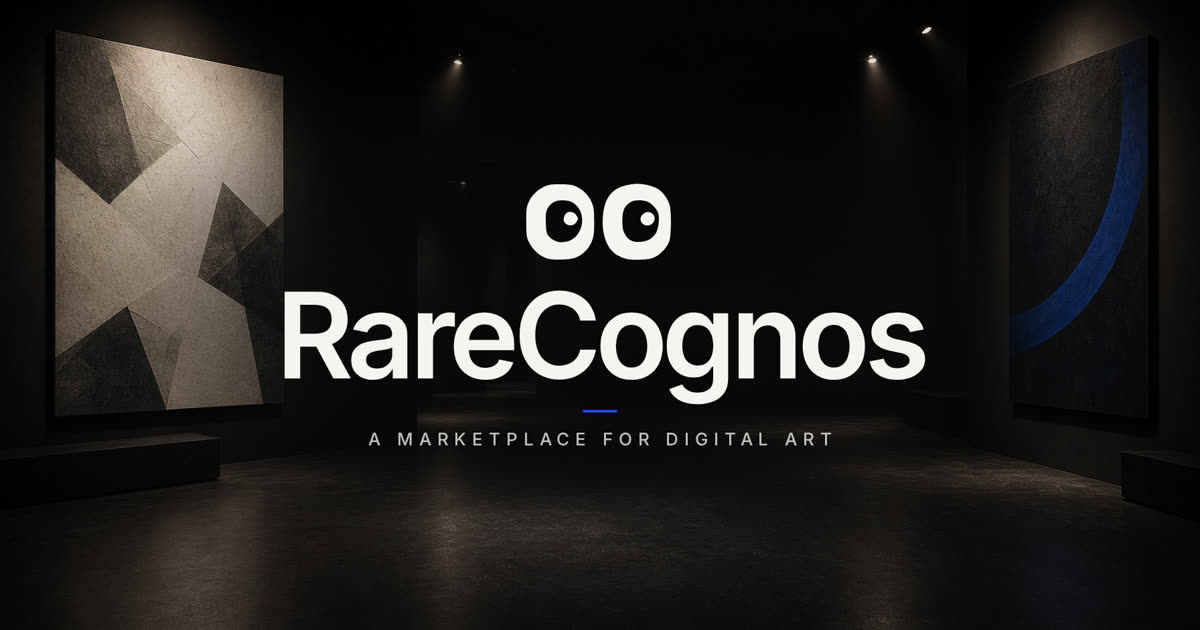
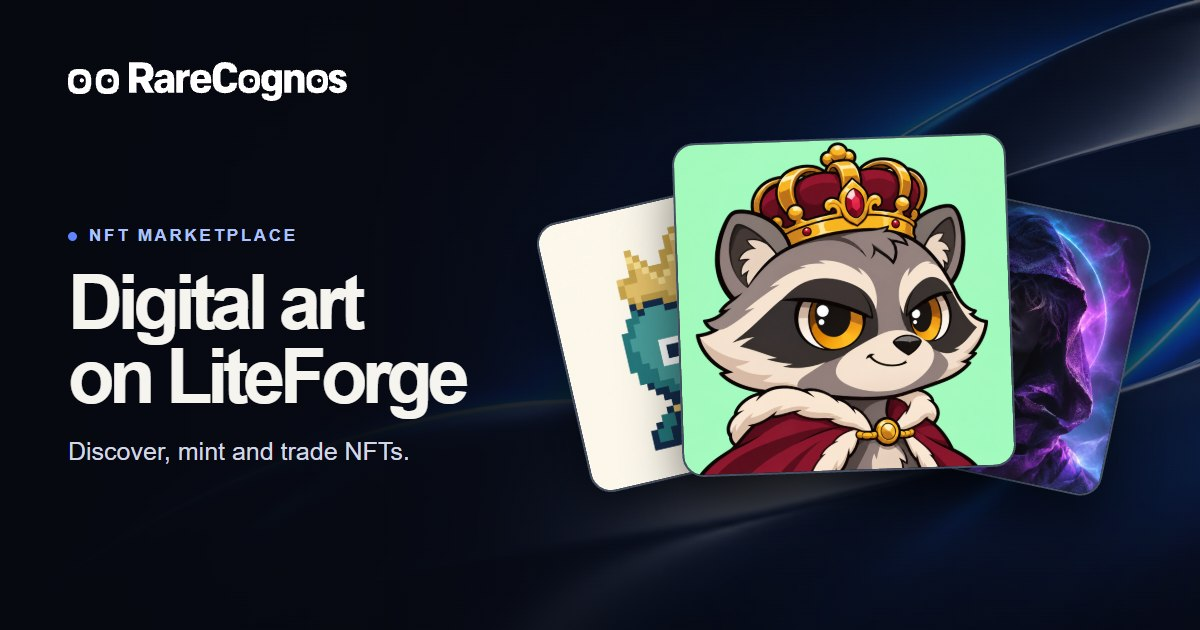
Use branded previews for marketplace and collection links

diff --git a/src/lib/site-meta.ts b/src/lib/site-meta.ts
@@ -3,10 +3,22 @@ export const siteOrigin = !configuredOrigin || configuredOrigin === "https://rar
   ? "https://rarecognos.com"
   : configuredOrigin;
 
+type ShareImage = { url: string; alt: string; width?: number; height?: number; type?: string };
+const jpegCard = (url: string, alt: string): ShareImage => ({ url, alt, width: 1200, height: 630, type: "image/jpeg" });
+const defaultShareImage = jpegCard("/og.jpg?v=2", "RareCognos marketplace with artwork from Eyed, Midnight Rogues and Halo");
+const collectionNames = { "midnight-rogues": "Midnight Rogues", eyed: "Eyed", halo: "Halo" };
 
-export function pageMeta(opts: { title: string; description: string; path: string; image: string }) {
+export function collectionShareImage(collection: keyof typeof collectionNames, piece?: { id: string; name: string }) {
+  return jpegCard(
+    `/social/${collection}${piece ? `-${piece.id}` : ""}.jpg`,
+    piece ? `${piece.name} from ${collectionNames[collection]} on RareCognos` : `${collectionNames[collection]} collection artwork on RareCognos`,
+  );
+}
+
+export function pageMeta(opts: { title: string; description: string; path: string; image?: ShareImage }) {
   const url = `${siteOrigin}${opts.path}`;
-  const image = opts.image.startsWith("http") ? opts.image : `${siteOrigin}${opts.image}`;
+  const card = opts.image ?? defaultShareImage;
+  const image = card.url.startsWith("http") ? card.url : `${siteOrigin}${card.url}`;
   return {
     meta: [
       { title: opts.title },
@@ -14,12 +26,17 @@ export function pageMeta(opts: { title: string; description: string; path: strin
       { property: "og:title", content: opts.title },
       { property: "og:description", content: opts.description },
       { property: "og:image", content: image },
+      ...(card.type ? [{ property: "og:image:type", content: card.type }] : []),
+      ...(card.width ? [{ property: "og:image:width", content: String(card.width) }] : []),
+      ...(card.height ? [{ property: "og:image:height", content: String(card.height) }] : []),
+      { property: "og:image:alt", content: card.alt },
       { property: "og:url", content: url },
       { property: "og:type", content: "website" },
       { name: "twitter:card", content: "summary_large_image" },
       { name: "twitter:title", content: opts.title },
       { name: "twitter:description", content: opts.description },
       { name: "twitter:image", content: image },
+      { name: "twitter:image:alt", content: card.alt },
     ],
     links: [{ rel: "canonical", href: url }],
   };

diff --git a/src/routes/midnight-rogues.tsx b/src/routes/midnight-rogues.tsx
@@ -9,7 +9,7 @@ import rogues from "@/data/midnight-rogues.json";
 import { MarketHeader } from "@/components/market-header";
 import { NetworkHelp } from "@/components/network-help";
 import { SiteFooter } from "@/components/site-footer";
-import { pageMeta } from "@/lib/site-meta";
+import { collectionShareImage, pageMeta } from "@/lib/site-meta";
 import { chain, explorer } from "@/lib/nft/config";
 import { rogueImage, roguePage, roguesAddress, roguesMintContracts, rogueEditions, roguesStory, useRoguesRelease } from "@/lib/nft/midnight-rogues";
 import { useEditionMint } from "@/lib/nft/use-edition-mint";
@@ -27,7 +27,7 @@ export const Route = createFileRoute("/midnight-rogues")({
       title: item ? `${item.name} · MIDNIGHT ROGUES · RareCognos` : "MIDNIGHT ROGUES · RareCognos",
       description: item?.story || roguesStory,
       path: item ? roguePage(item.id) : "/midnight-rogues",
-      image: rogueImage(item?.id || "001"),
+      image: collectionShareImage("midnight-rogues", item),
     });
   },
   component: Collection,

diff --git a/src/lib/nft/market-preview.ts b/src/lib/nft/market-preview.ts
@@ -25,7 +25,7 @@ export async function marketPreview(assetKey?: string, sale?: string) {
       : "/network-market";
   let title = "LiteForge NFT market";
   let description = "Collect or list ERC-721 and ERC-1155 NFTs on the LiteForge testnet.";
-  let image = "/og.jpg";
+  let image: string | undefined;
   if (!asset && sale) {
     title = "Listing " + sale;
     try {
@@ -64,7 +64,7 @@ export async function marketPreview(assetKey?: string, sale?: string) {
     } catch {
       /* A token without indexed art still has its own share URL. */
     }
-    if (image === "/og.jpg") {
+    if (!image) {
       try {
         const uri = await client.readContract({
           address: asset.collection,
@@ -84,5 +84,5 @@ export async function marketPreview(assetKey?: string, sale?: string) {
       }
     }
   }
-  return pageMeta({ title: title + " · RareCognos", description, path, image });
+  return pageMeta({ title: title + " · RareCognos", description, path, image: image ? { url: image, alt: title } : undefined });
 }

diff --git a/src/routes/halo.tsx b/src/routes/halo.tsx
@@ -13,7 +13,7 @@ import haloDeployment from "../../config/halo.json";
 import { availabilityLabel, dropStatus } from "@/lib/nft/availability";
 import { phaseLabel, txFailure, type MintPhase } from "@/lib/nft/mint-phase";
 import { abi } from "@/lib/nft/RareCognosHalo";
-import { pageMeta } from "@/lib/site-meta";
+import { collectionShareImage, pageMeta } from "@/lib/site-meta";
 import { useEditionMint } from "@/lib/nft/use-edition-mint";
 import { transactionError } from "@/lib/nft/transaction";
 
@@ -33,7 +33,7 @@ export const Route = createFileRoute("/halo")({
       title: figure ? `${figure.name} · Halo · RareCognos` : "Halo · RareCognos",
       description: figure ? figure.story : "Halo is a set of six figures. The drop is not open yet.",
       path,
-      image: figure ? `/art/halo/${figure.id}.png` : "/art/halo/01.png",
+      image: collectionShareImage("halo", figure),
     });
   },
   component: HaloPage,

diff --git a/src/routes/eyed.tsx b/src/routes/eyed.tsx
@@ -16,7 +16,7 @@ import { availabilityLabel, dropStatus } from "@/lib/nft/availability";
 import { phaseLabel, txFailure, type MintPhase } from "@/lib/nft/mint-phase";
 import { eyedContractIndex, eyedVisible } from "@/lib/nft/piece-index";
 import { abi } from "@/lib/nft/RareCognosEyed";
-import { pageMeta } from "@/lib/site-meta";
+import { collectionShareImage, pageMeta } from "@/lib/site-meta";
 import { useEditionMint } from "@/lib/nft/use-edition-mint";
 import { transactionError } from "@/lib/nft/transaction";
 
@@ -38,7 +38,7 @@ export const Route = createFileRoute("/eyed")({
         ? face.story
         : "Eyed is a character collection available to discover and mint on LiteForge.",
       path,
-      image: face ? `/art/eyed/${face.id}.jpg` : "/art/eyed/02.jpg",
+      image: collectionShareImage("eyed", face),
     });
   },
   component: EyedPage,

diff --git a/src/routes/token.$tokenId.tsx b/src/routes/token.$tokenId.tsx
@@ -25,7 +25,7 @@ export const Route = createFileRoute("/token/$tokenId")({
     title: `${loaderData?.name || `Token #${params.tokenId}`} · RareCognos`,
     description: loaderData?.description || `Discover RareCognos token #${params.tokenId} on the LiteForge testnet.`,
     path: `/token/${params.tokenId}`,
-    image: loaderData?.image || "/og.jpg",
+    image: loaderData?.image ? { url: loaderData.image, alt: loaderData.name } : undefined,
   }),
   component: TokenPage,
 });

diff --git a/src/routes/index.tsx b/src/routes/index.tsx
@@ -24,9 +24,8 @@ export const Route = createFileRoute("/")({
   head: () =>
     pageMeta({
       title: "RareCognos",
-      description: "An eye for the rare. Distinctive digital art on LiteForge.",
+      description: "Discover, mint and trade NFTs on the LiteForge testnet.",
       path: "/",
-      image: rogueImage("001"),
     }),
   component: Home,
 });

diff --git a/src/routes/explore.tsx b/src/routes/explore.tsx
@@ -59,7 +59,6 @@ export const Route = createFileRoute("/explore")({
       title: "Explore · RareCognos",
       description: "Discover MIDNIGHT ROGUES, Eyed, Halo and works listed on LiteForge.",
       path: "/explore",
-      image: "/art/eyed/02.jpg",
     }),
   component: ExplorePage,
 });

diff --git a/src/routes/create.tsx b/src/routes/create.tsx
@@ -19,7 +19,6 @@ export const Route = createFileRoute("/create")({
       title: "Create · RareCognos",
       description: "Prepare an image, then mint it. Uploading is not the same as minting.",
       path: "/create",
-      image: "/og.jpg",
     }),
   component: CreatePage,
 });

diff --git a/src/routes/about.tsx b/src/routes/about.tsx
@@ -9,7 +9,6 @@ export const Route = createFileRoute("/about")({
       title: "About · RareCognos",
       description: "Discover, create, collect and trade digital art on the LiteForge testnet.",
       path: "/about",
-      image: "/og.jpg",
     }),
   component: AboutPage,
 });

diff --git a/src/routes/quest.tsx b/src/routes/quest.tsx
@@ -14,7 +14,6 @@ export const Route = createFileRoute("/quest")({
       title: "Wallet XP · RareCognos",
       description: "Track your LiteForge quests, daily streak and collector milestones.",
       path: "/quest",
-      image: "/og.jpg",
     }),
   component: QuestPage,
 });

diff --git a/src/routes/how.tsx b/src/routes/how.tsx
@@ -10,7 +10,6 @@ export const Route = createFileRoute("/how")({
       title: "How it works · RareCognos",
       description: "Connect a wallet, add LiteForge, get test zkLTC, then mint.",
       path: "/how",
-      image: "/og.jpg",
     }),
   component: HowPage,
 });
